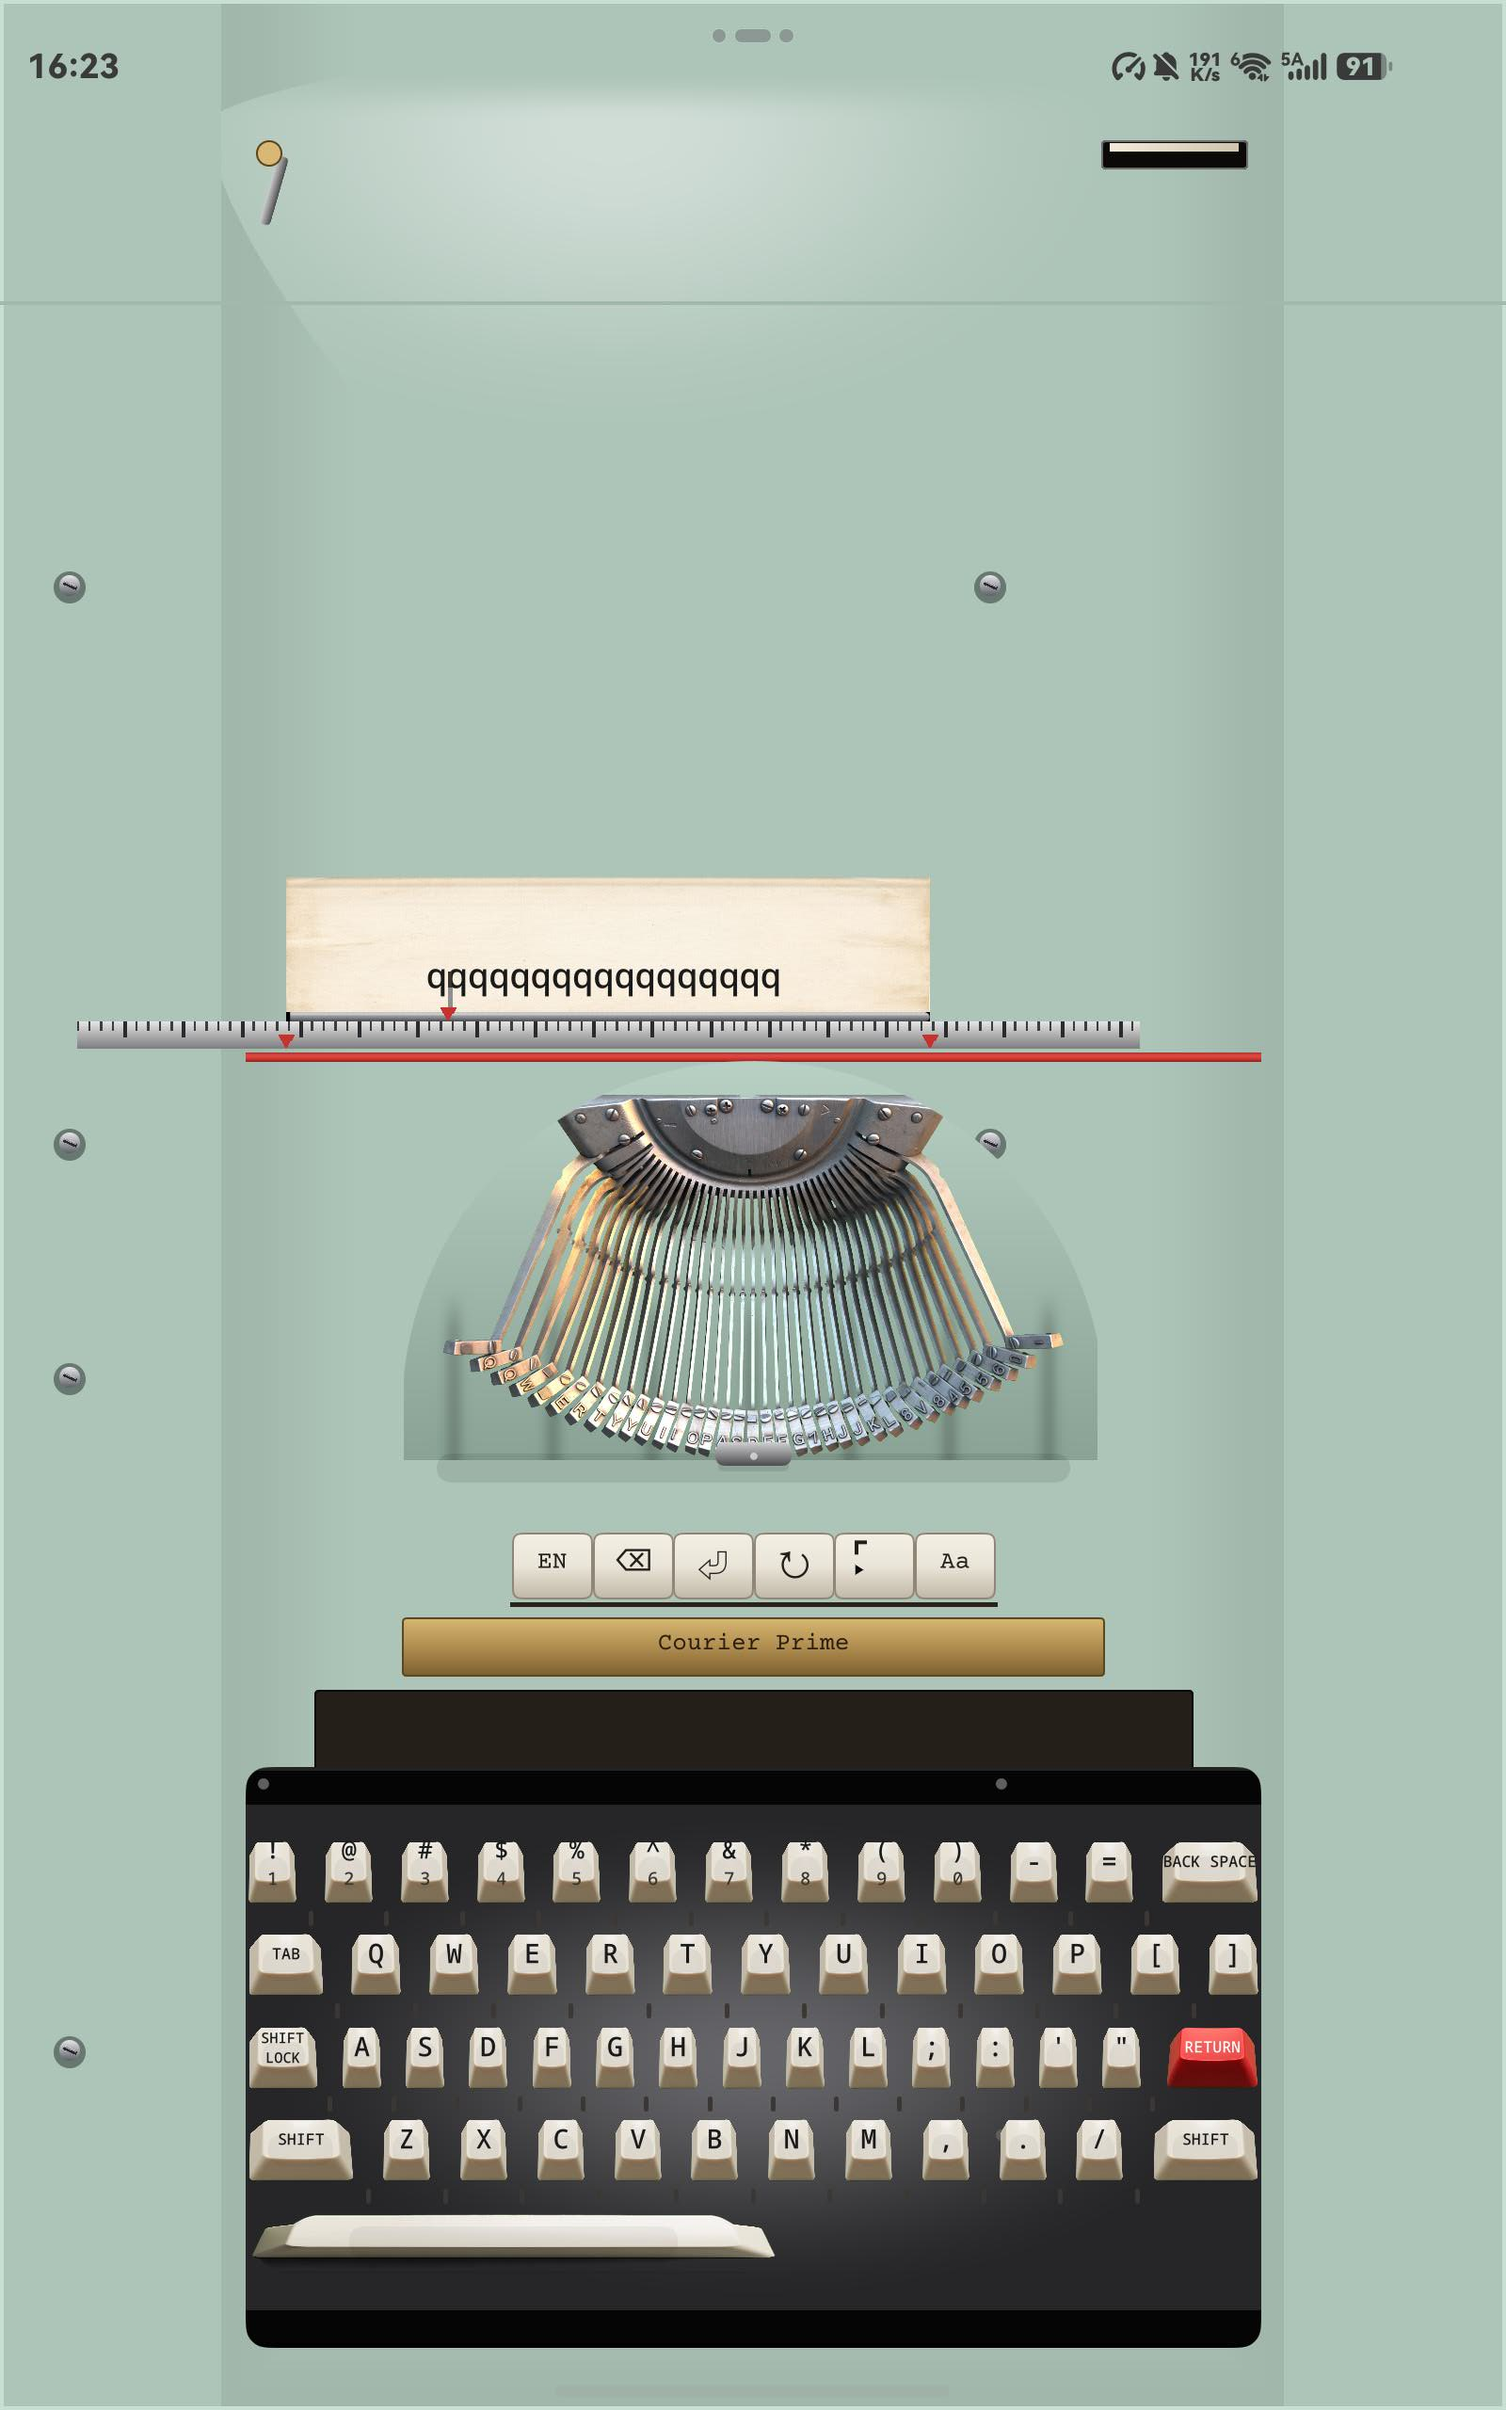
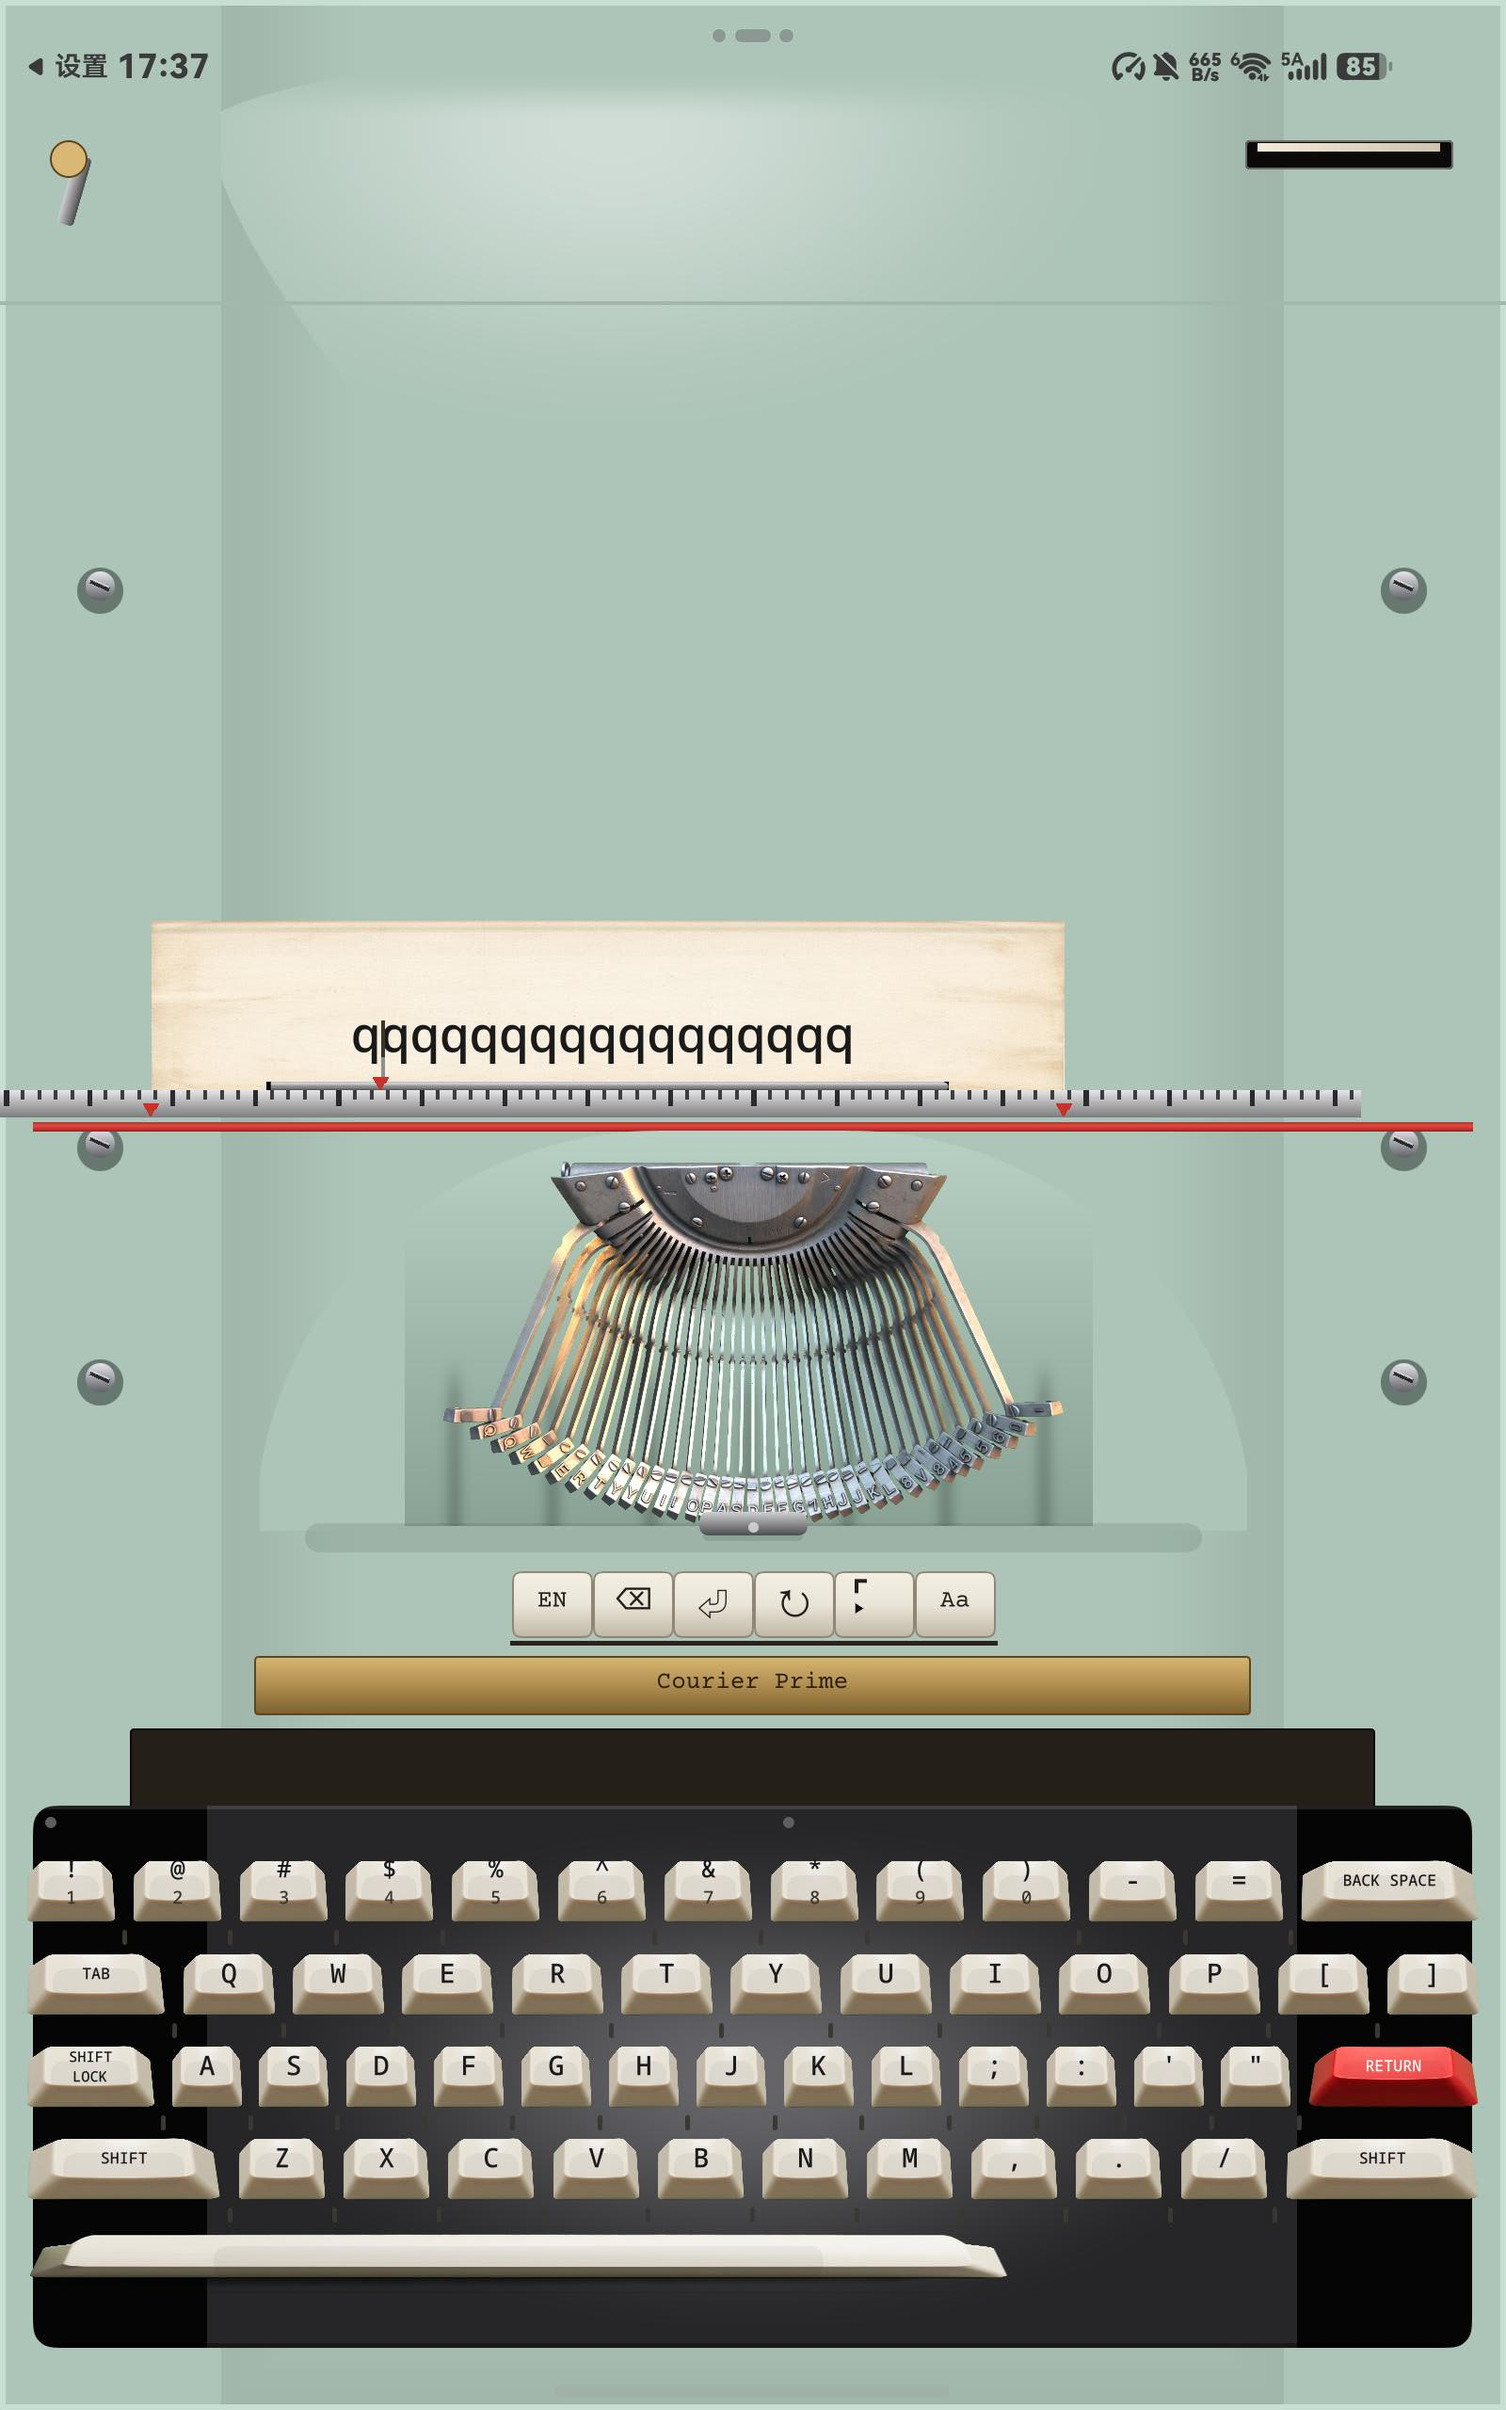
批64 第二十九步：换装改名主题 + 打字页横向铺满 + 键帽等比放大
用户直接指示（高于任何计划）：
1) 换装→主题：string.json 9 处 + HomePage 硬编码入口；动词用法（换装会即时生效等）保留
2) 打字页左右仍空：根因 machineW=min(availW, availH x 362.7/822.5) 竖屏恒为 475.3vp（按高度算），
   而屏宽 673.7vp；xk() 也被高度卡在 1.3106
   → Stage26.machineW=availW、machineLeft=0；Index.machineWidth26()=stageWidth；
     Index.xk()=machineWidth26()/362.7（1.857），yk() 仍 1.3106，33 处调用点自动跟随
3) 键帽等比放大：KeyGrid.kx()=widthVp/362.7，placed() 键宽 k.w*kx，stemXs() 同步重算

实测：Pw 288→408.3、fs 15.58→22.08、lh 27.5→39.0、lineW 158.9→225.2；
八区全铺满/居中（paper 偏左 155px 是字车 O=-65vp 正常位移）
后果：cpl 仍 17（纸宽与字号同比）；旧打字页证据全部过时需重拍

diff --git a/docs/evidence/p36/selfcheck.md b/docs/evidence/p36/selfcheck.md
@@ -2698,3 +2698,47 @@ F 项里打字主链路（落字/回车/退格/换纸/功能行）成立；**F-1
 **取证坑（本轮踩到，记下来）**：用 `input keyevent 4` 在覆盖页之间导航不可靠（会停在原页）；
 改用「顶栏返回按钮 (52,120) + 底栏坐标直点」，并**每步核对页面标题**（`by_text` 取 y<300 的标题），
 否则会连拍出四张同一个页面的截图却以为在验不同页。
+
+### 批 64 第二十九步：改名「换装」→「主题」＋ 打字页横向铺满 ＋ 键帽等比放大
+
+**用户 2026-11-21 直接指示**（高于任何计划）：①换装叫主题 ②打字页左右仍然空、没正确自适应。
+
+**一、改名**
+`resources/base/element/string.json` 共 9 处：导航项与页标题 `"换装"` → `"主题"`；
+指引句里明确指代页面的（「底部一行是卷宗、收藏、**主题**、设置和导出」「机器与主题」「字体在**主题**里选」）同步改。
+「换装会即时生效」「随时换装」「分享、换装都会解锁」这三处是**动词**用法（换机器的装），保持原样更通顺。
+`HomePage.entryLink('换装', 'customize')` 是硬编码，一并改成 `'主题'`。
+
+**二、打字页横向铺满（为什么之前必然留空）**
+`StageLayout` 与 `Index.xk()` 都用「机器长宽比」定宽：
+`machineW = min(availW, availH × 362.7/822.5)`，竖屏平板按**高度**算出 475.3vp，
+而屏宽 673.7vp ⇒ 左右各空 99vp；`xk() === yk() === min(宽比,高比) = 1.3106` 被高度卡死。
+
+改法（三处，互相自洽）：
+1. `Stage26.StageLayout`：`machineW = availW`、`machineLeft = 0`（铺满，长宽比不再约束宽度）。
+2. `Index.machineWidth26()` → 返回 `stageWidth`（避免与 `xk()` 自引用）。
+3. `Index.xk()` → 改为**横向比例** `machineWidth26() / 362.7`（平板 1.857），`yk()` 仍按高度比 1.3106
+   ⇒ 33 处 `this.xk()` 调用点自动跟随，不需要逐个改。**允许非等比**，这是铺满的代价。
+
+**三、键帽等比放大**
+井变宽后，旧实现只会把 `SpaceBetween` 的间距拉稀（键还是 21.6 宽），键盘显得空旷。
+`KeyGrid.kx() = widthVp / 362.7`，`placed()` 的键宽改为 `k.w × kx`；`stemXs()` 的累计宽与间距同步按 `kx` 重算（否则键杆错位）。
+
+**四、实测（平板 1600×2560px / 673.7×1077.9vp）**
+`parts`：`Pw=288.0 → **408.3**`、`fs=15.58 → **22.08**`、`lh=27.5 → **39.0**`、`lineW=158.9 → **225.2**`。
+八区 dump：
+
+| 区 | bbox | 判定 |
+|---|---|---|
+| carriage／key_grid／top_zone | `0–1600` | 铺满 ✔ |
+| basket | `271–1330`（中心 800.5） | 居中 ✔ |
+| function_caps | `544–1057`（中心 800.5） | 居中 ✔ |
+| font_plate／key_well | `35–1565`（中心 800） | 铺满 ✔ |
+| paper | `160–1130`（中心 645） | **偏左 155px＝字车 `O=-65vp` 的正常位移**（满行态），非 bug |
+
+**五、必须知道的后果**
+1. **每行字数仍是 17**：纸宽与字号同比放大（`lineW 225.2 / adv 13.25 = 17`），
+   所以「铺满」并不能解决 17 字的问题——要改 cpl 仍得动边距/纸宽比例（六①依旧待定）。
+2. **旧打字页证据全部过时**：`2280/2282/2283/2284/2285/2286/2287/2290` 都是 475.3vp 机器宽下拍的
+   （`Pw=288`/`fs=15.58`/`lh=27.5`），几何已变，需按新口径重拍；`2291–2296` 是覆盖页铺满的新证据，仍有效。
+3. 机器不再保持 362.7:822.5 的长宽比（横向 1.857、纵向 1.3106），这是「铺满」的直接结果。
